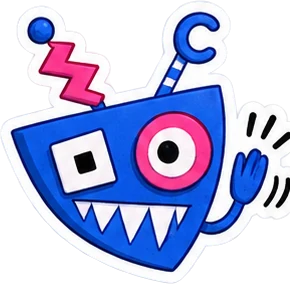
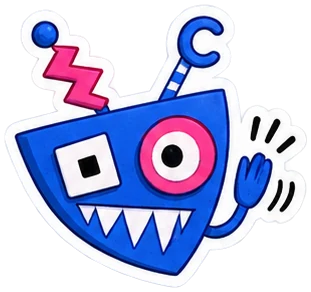
Stickers: cut by connected parts instead of the 4x4 grid, so details past the cell edge stay
Claude-Session: https://claude.ai/code/session_01MMAr13SWE4zTUHVdE4TCR2

diff --git a/ru/index.html b/ru/index.html
@@ -44,7 +44,7 @@
   <div class="btns"><a class="btn" href="#games"><svg viewBox="0 0 24 24" aria-hidden="true"><path fill="currentColor" d="M8 4.5v15a1 1 0 0 0 1.5.86l12-7.5a1 1 0 0 0 0-1.72l-12-7.5A1 1 0 0 0 8 4.5Z"/></svg>Смотреть игры</a><a class="btn cream" href="#about">Обо мне</a></div>
 </div><svg class="wave" viewBox="0 0 1440 70" preserveAspectRatio="none" aria-hidden="true"><path fill="currentColor" d="M0 34c120-30 240-30 360 0s240 30 360 0 240-30 360 0 240 30 360 0v36H0Z"/></svg></section>
 <section class="sec" id="games"><div class="wrap">
-  <div class="sec-head"><h2>Играть <span>сейчас</span></h2><p>Бесплатные онлайн-игры для телефона и компьютера. Играйте прямо в браузере, без скачивания и регистрации.</p><img class="sticker " src="../assets/img/stickers/wink.webp" alt="" width="284" height="294" loading="lazy" style="--r:8deg"></div>
+  <div class="sec-head"><h2>Играть <span>сейчас</span></h2><p>Бесплатные онлайн-игры для телефона и компьютера. Играйте прямо в браузере, без скачивания и регистрации.</p><img class="sticker " src="../assets/img/stickers/wink.webp" alt="" width="293" height="311" loading="lazy" style="--r:8deg"></div>
   <div class="games"><article class="gcard">
   <a href="../ru/games/jelly-swirl/" tabindex="-1" aria-hidden="true" class="cover-link"><img class="cover" src="../assets/img/jelly-swirl/cover.webp" alt="" width="960" height="540" loading="lazy"></a>
   <div class="body">
@@ -72,7 +72,7 @@
 </article></div>
 </div></section>
 <section class="sec" id="dev" style="padding-top:8px"><div class="wrap">
-  <div class="sec-head"><h2>В <span>разработке</span></h2><p>Большие и мрачные проекты для ПК, над которыми я работаю прямо сейчас.</p><img class="sticker " src="../assets/img/stickers/cool.webp" alt="" width="302" height="290" loading="lazy" style="--r:-7deg"></div>
+  <div class="sec-head"><h2>В <span>разработке</span></h2><p>Большие и мрачные проекты для ПК, над которыми я работаю прямо сейчас.</p><img class="sticker " src="../assets/img/stickers/cool.webp" alt="" width="326" height="301" loading="lazy" style="--r:-7deg"></div>
   <div class="games two"><article class="gcard dark">
   <a href="../ru/games/pogost/" tabindex="-1" aria-hidden="true" class="cover-link"><img class="cover" src="../assets/img/pogost/cover.webp" alt="" width="960" height="540" loading="lazy"><span class="badge">В разработке</span></a>
   <div class="body">
@@ -95,8 +95,8 @@
 <section class="sec" id="about"><div class="wrap">
   <div class="sec-head"><h2>Обо <span>мне</span></h2></div>
   <div class="about">
-    <img class="sticker hi" src="../assets/img/stickers/hi.webp" alt="" width="290" height="284" loading="lazy" style="--r:-5deg">
-    <div class="card"><img class="sticker love" src="../assets/img/stickers/love.webp" alt="" width="298" height="296" loading="lazy" style="--r:12deg"><h3>Привет! Меня зовут Дмитрий, можно просто Мито</h3><p>Я делаю игры в одиночку, а помогает мне в этом искусственный интеллект: код, графика, звук, тестирование. Так один человек может сделать работу небольшой команды.</p><p>Играю всю жизнь, с самого детства, и игры всегда были моим главным увлечением. Теперь я хочу делать качественные игры, в которые по-настоящему интересно играть.</p><p>Одни мои игры яркие и уютные, другие тёмные и страшные. Общее у них одно: внимание к тому, как игра ощущается в руках.</p><div class="where"><span class="chip"><svg viewBox="0 0 24 24" fill="none" stroke="currentColor" stroke-width="2.1" stroke-linecap="round" stroke-linejoin="round" aria-hidden="true"><rect x="2" y="4" width="14" height="10" rx="1.6"/><path d="M6 18h6M9 14v4"/><rect x="17" y="9" width="5" height="11" rx="1.2"/></svg>Браузер и ПК</span><span class="chip"><svg viewBox="0 0 24 24" fill="none" stroke="currentColor" stroke-width="2.1" stroke-linecap="round" stroke-linejoin="round" aria-hidden="true"><path d="M14 6 9 11l-5.5 5.5a2 2 0 0 0 2.8 2.8L12 14l5-5"/><path d="m13 3 8 8-2.5 2.5-8-8Z"/></svg>В одиночку с ИИ</span><span class="chip"><svg viewBox="0 0 24 24" fill="none" stroke="currentColor" stroke-width="2.1" stroke-linecap="round" stroke-linejoin="round" aria-hidden="true"><path d="m12 3 2.7 5.6 6.1.9-4.4 4.3 1 6.1L12 17l-5.4 2.9 1-6.1L3.2 9.5l6.1-.9Z"/></svg>Браузерные игры бесплатные</span></div></div>
+    <img class="sticker hi" src="../assets/img/stickers/hi.webp" alt="" width="311" height="292" loading="lazy" style="--r:-5deg">
+    <div class="card"><img class="sticker love" src="../assets/img/stickers/love.webp" alt="" width="306" height="310" loading="lazy" style="--r:12deg"><h3>Привет! Меня зовут Дмитрий, можно просто Мито</h3><p>Я делаю игры в одиночку, а помогает мне в этом искусственный интеллект: код, графика, звук, тестирование. Так один человек может сделать работу небольшой команды.</p><p>Играю всю жизнь, с самого детства, и игры всегда были моим главным увлечением. Теперь я хочу делать качественные игры, в которые по-настоящему интересно играть.</p><p>Одни мои игры яркие и уютные, другие тёмные и страшные. Общее у них одно: внимание к тому, как игра ощущается в руках.</p><div class="where"><span class="chip"><svg viewBox="0 0 24 24" fill="none" stroke="currentColor" stroke-width="2.1" stroke-linecap="round" stroke-linejoin="round" aria-hidden="true"><rect x="2" y="4" width="14" height="10" rx="1.6"/><path d="M6 18h6M9 14v4"/><rect x="17" y="9" width="5" height="11" rx="1.2"/></svg>Браузер и ПК</span><span class="chip"><svg viewBox="0 0 24 24" fill="none" stroke="currentColor" stroke-width="2.1" stroke-linecap="round" stroke-linejoin="round" aria-hidden="true"><path d="M14 6 9 11l-5.5 5.5a2 2 0 0 0 2.8 2.8L12 14l5-5"/><path d="m13 3 8 8-2.5 2.5-8-8Z"/></svg>В одиночку с ИИ</span><span class="chip"><svg viewBox="0 0 24 24" fill="none" stroke="currentColor" stroke-width="2.1" stroke-linecap="round" stroke-linejoin="round" aria-hidden="true"><path d="m12 3 2.7 5.6 6.1.9-4.4 4.3 1 6.1L12 17l-5.4 2.9 1-6.1L3.2 9.5l6.1-.9Z"/></svg>Браузерные игры бесплатные</span></div></div>
   </div>
 </div></section>
 </main>

diff --git a/index.html b/index.html
@@ -44,7 +44,7 @@
   <div class="btns"><a class="btn" href="#games"><svg viewBox="0 0 24 24" aria-hidden="true"><path fill="currentColor" d="M8 4.5v15a1 1 0 0 0 1.5.86l12-7.5a1 1 0 0 0 0-1.72l-12-7.5A1 1 0 0 0 8 4.5Z"/></svg>See the games</a><a class="btn cream" href="#about">About me</a></div>
 </div><svg class="wave" viewBox="0 0 1440 70" preserveAspectRatio="none" aria-hidden="true"><path fill="currentColor" d="M0 34c120-30 240-30 360 0s240 30 360 0 240-30 360 0 240 30 360 0v36H0Z"/></svg></section>
 <section class="sec" id="games"><div class="wrap">
-  <div class="sec-head"><h2>Play <span>now</span></h2><p>Free online games for phones and computers. They run right in your browser: no download, no sign-up.</p><img class="sticker " src="assets/img/stickers/wink.webp" alt="" width="284" height="294" loading="lazy" style="--r:8deg"></div>
+  <div class="sec-head"><h2>Play <span>now</span></h2><p>Free online games for phones and computers. They run right in your browser: no download, no sign-up.</p><img class="sticker " src="assets/img/stickers/wink.webp" alt="" width="293" height="311" loading="lazy" style="--r:8deg"></div>
   <div class="games"><article class="gcard">
   <a href="games/jelly-swirl/" tabindex="-1" aria-hidden="true" class="cover-link"><img class="cover" src="assets/img/jelly-swirl/cover.webp" alt="" width="960" height="540" loading="lazy"></a>
   <div class="body">
@@ -72,7 +72,7 @@
 </article></div>
 </div></section>
 <section class="sec" id="dev" style="padding-top:8px"><div class="wrap">
-  <div class="sec-head"><h2>In <span>development</span></h2><p>Bigger and darker projects for PC that I&#x27;m working on right now.</p><img class="sticker " src="assets/img/stickers/cool.webp" alt="" width="302" height="290" loading="lazy" style="--r:-7deg"></div>
+  <div class="sec-head"><h2>In <span>development</span></h2><p>Bigger and darker projects for PC that I&#x27;m working on right now.</p><img class="sticker " src="assets/img/stickers/cool.webp" alt="" width="326" height="301" loading="lazy" style="--r:-7deg"></div>
   <div class="games two"><article class="gcard dark">
   <a href="games/pogost/" tabindex="-1" aria-hidden="true" class="cover-link"><img class="cover" src="assets/img/pogost/cover.webp" alt="" width="960" height="540" loading="lazy"><span class="badge">In development</span></a>
   <div class="body">
@@ -95,8 +95,8 @@
 <section class="sec" id="about"><div class="wrap">
   <div class="sec-head"><h2>About <span>me</span></h2></div>
   <div class="about">
-    <img class="sticker hi" src="assets/img/stickers/hi.webp" alt="" width="290" height="284" loading="lazy" style="--r:-5deg">
-    <div class="card"><img class="sticker love" src="assets/img/stickers/love.webp" alt="" width="298" height="296" loading="lazy" style="--r:12deg"><h3>Hi! I&#x27;m Dmitry, or just Meeto</h3><p>I make games on my own, and AI helps me with it: code, art, sound, testing. It lets one person do the work of a small team.</p><p>I&#x27;ve been playing games my whole life, since I was a kid, and they have always been my biggest passion. Now I want to make quality games that are genuinely interesting to play.</p><p>Some of my games are bright and cozy, others are dark and scary. What they share is attention to how they feel in your hands.</p><div class="where"><span class="chip"><svg viewBox="0 0 24 24" fill="none" stroke="currentColor" stroke-width="2.1" stroke-linecap="round" stroke-linejoin="round" aria-hidden="true"><rect x="2" y="4" width="14" height="10" rx="1.6"/><path d="M6 18h6M9 14v4"/><rect x="17" y="9" width="5" height="11" rx="1.2"/></svg>Browser and PC</span><span class="chip"><svg viewBox="0 0 24 24" fill="none" stroke="currentColor" stroke-width="2.1" stroke-linecap="round" stroke-linejoin="round" aria-hidden="true"><path d="M14 6 9 11l-5.5 5.5a2 2 0 0 0 2.8 2.8L12 14l5-5"/><path d="m13 3 8 8-2.5 2.5-8-8Z"/></svg>Made solo with AI</span><span class="chip"><svg viewBox="0 0 24 24" fill="none" stroke="currentColor" stroke-width="2.1" stroke-linecap="round" stroke-linejoin="round" aria-hidden="true"><path d="m12 3 2.7 5.6 6.1.9-4.4 4.3 1 6.1L12 17l-5.4 2.9 1-6.1L3.2 9.5l6.1-.9Z"/></svg>Browser games are free</span></div></div>
+    <img class="sticker hi" src="assets/img/stickers/hi.webp" alt="" width="311" height="292" loading="lazy" style="--r:-5deg">
+    <div class="card"><img class="sticker love" src="assets/img/stickers/love.webp" alt="" width="306" height="310" loading="lazy" style="--r:12deg"><h3>Hi! I&#x27;m Dmitry, or just Meeto</h3><p>I make games on my own, and AI helps me with it: code, art, sound, testing. It lets one person do the work of a small team.</p><p>I&#x27;ve been playing games my whole life, since I was a kid, and they have always been my biggest passion. Now I want to make quality games that are genuinely interesting to play.</p><p>Some of my games are bright and cozy, others are dark and scary. What they share is attention to how they feel in your hands.</p><div class="where"><span class="chip"><svg viewBox="0 0 24 24" fill="none" stroke="currentColor" stroke-width="2.1" stroke-linecap="round" stroke-linejoin="round" aria-hidden="true"><rect x="2" y="4" width="14" height="10" rx="1.6"/><path d="M6 18h6M9 14v4"/><rect x="17" y="9" width="5" height="11" rx="1.2"/></svg>Browser and PC</span><span class="chip"><svg viewBox="0 0 24 24" fill="none" stroke="currentColor" stroke-width="2.1" stroke-linecap="round" stroke-linejoin="round" aria-hidden="true"><path d="M14 6 9 11l-5.5 5.5a2 2 0 0 0 2.8 2.8L12 14l5-5"/><path d="m13 3 8 8-2.5 2.5-8-8Z"/></svg>Made solo with AI</span><span class="chip"><svg viewBox="0 0 24 24" fill="none" stroke="currentColor" stroke-width="2.1" stroke-linecap="round" stroke-linejoin="round" aria-hidden="true"><path d="m12 3 2.7 5.6 6.1.9-4.4 4.3 1 6.1L12 17l-5.4 2.9 1-6.1L3.2 9.5l6.1-.9Z"/></svg>Browser games are free</span></div></div>
   </div>
 </div></section>
 </main>

diff --git a/404.html b/404.html
@@ -36,7 +36,7 @@
     <span class="lang"><a href="/" hreflang="en" aria-current="page">EN</a><a href="/ru/" hreflang="ru">RU</a></span>
   </nav>
 </div></header>
-<main id="main" class="wrap nf"><div><img class="sticker " src="/assets/img/stickers/huh.webp" alt="" width="271" height="293" loading="lazy" style="--r:-4deg"><b>404</b><h1 style="font-size:36px;color:var(--ink);margin-top:10px">This page rolled away</h1>
+<main id="main" class="wrap nf"><div><img class="sticker " src="/assets/img/stickers/huh.webp" alt="" width="279" height="306" loading="lazy" style="--r:-4deg"><b>404</b><h1 style="font-size:36px;color:var(--ink);margin-top:10px">This page rolled away</h1>
 <p style="margin:12px 0 26px;color:var(--muted)">Let's go back to the games. / Вернёмся к играм.</p>
 <div class="btns" style="justify-content:center"><a class="btn" href="/">To the home page</a><a class="btn cream" href="/ru/">На главную</a></div></div></main>
 <footer class="foot"><svg class="wave-top" viewBox="0 0 1440 70" preserveAspectRatio="none" aria-hidden="true"><path fill="currentColor" d="M0 36c120 30 240 30 360 0s240-30 360 0 240 30 360 0 240-30 360 0v34H0Z"/></svg><div class="wrap">
